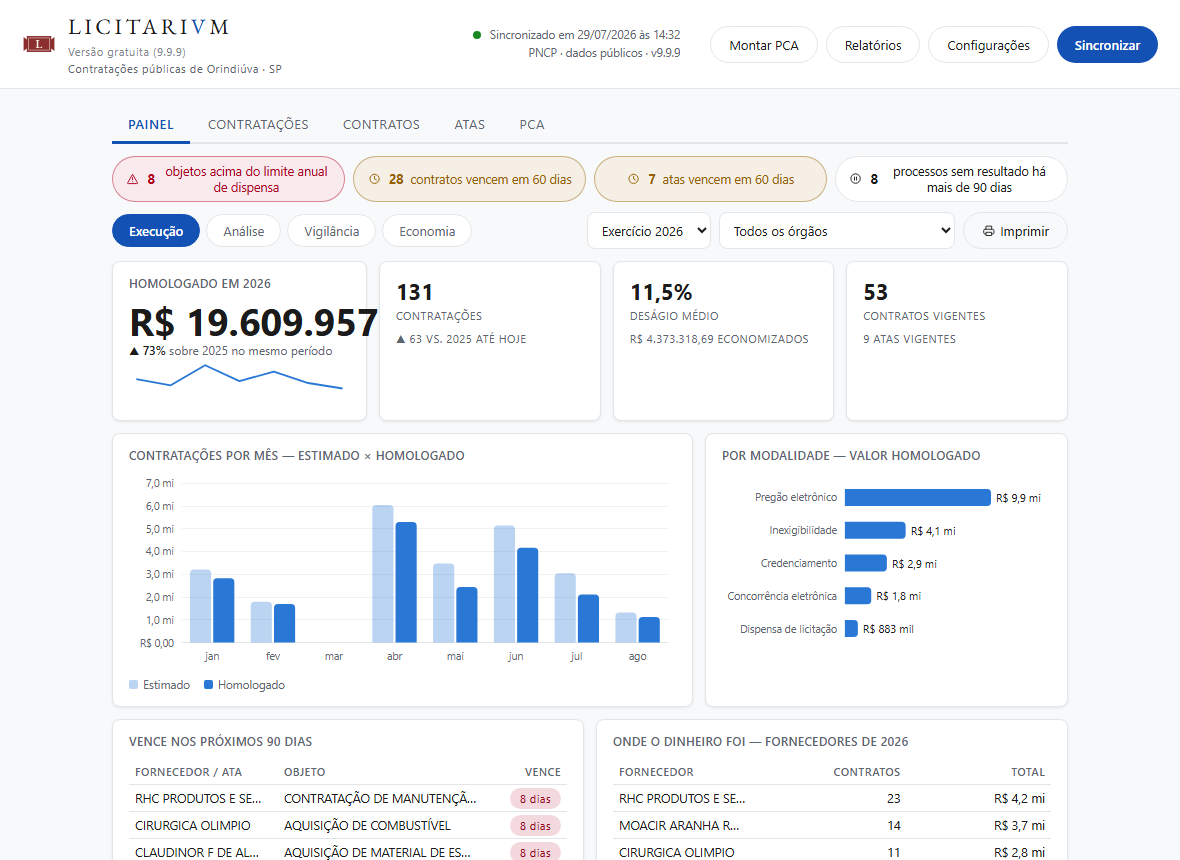
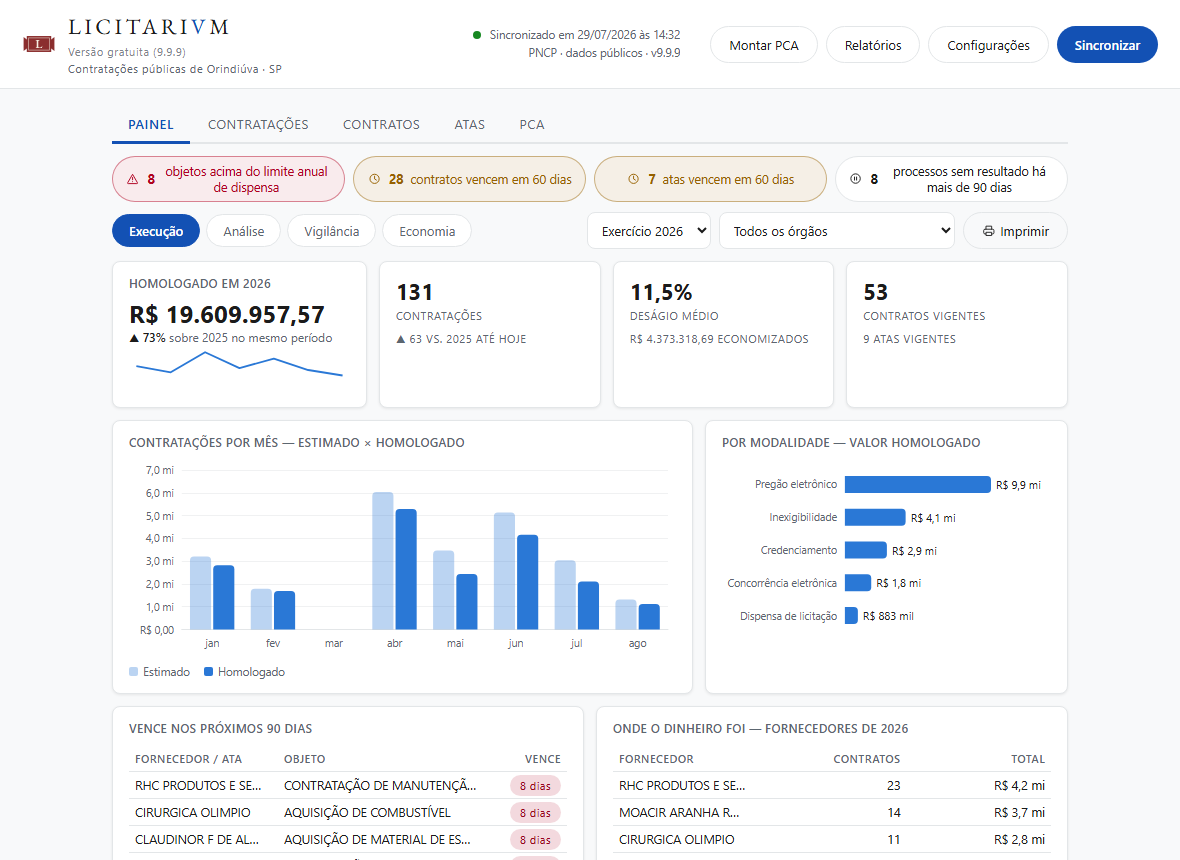
fix(painel): hero mede a fonte pelo card, não pela janela
O clamp() do número em ".hero .n" escalava por `vw` (largura da JANELA).
O card para de crescer ao esbarrar no teto do `main`, mas a fonte
continuava crescendo com a janela — em telas largas ela passava da
largura do card. Sem overflow:hidden em lugar nenhum, o excesso não era
cortado: era pintado por baixo do card vizinho no grid, o que na tela
parecia corte limpo mas não era (boundingBox() nunca acusava, porque mede
a área pintada, não o conteúdo).

Estourou de verdade na 1.44.5: "R$ 19,6 mi" (11 caracteres) virou
"R$ 19.609.957,57" (17) e o teto de 40px nunca foi calibrado pra essa
largura. `container-type:inline-size` no `.card.hero` + `cqw` no lugar de
`vw` — a fonte acompanha o card de verdade, não a janela.

Guarda antigo reescrito: usava boundingBox(), que não pegava o bug (dava
falso-negativo o tempo todo). Agora mede scrollWidth/clientWidth (overflow
real) em 4 larguras de janela, não só a mínima — o achado do usuário veio
de uma tela normal, não da mínima de 900px. Bites-confirmado: sem o CSS
novo, scrollW=246 > clientW=193.

Screenshots do README regenerados (mesma rodada de suíte).

Documentação: CHANGELOG + MANUAL + VERSAO 1.44.6.

diff --git a/MANUAL.html b/MANUAL.html
@@ -2,11 +2,11 @@
 <html lang="pt-BR">
 <head>
 <meta charset="utf-8">
-<title>Manual Operacional — Licitarium Free v1.44.5</title>
+<title>Manual Operacional — Licitarium Free v1.44.6</title>
 <style>
   @page {
     size: A4; margin: 2cm 1.8cm;
-    @top-center { content: "Licitarium Free v1.44.5 — Manual Operacional"; font-size: 9pt; color: #6f5b3e; }
+    @top-center { content: "Licitarium Free v1.44.6 — Manual Operacional"; font-size: 9pt; color: #6f5b3e; }
     @bottom-right { content: "Página " counter(page) " de " counter(pages);
                     font-size: 9pt; color: #6f5b3e; }
   }
@@ -155,7 +155,7 @@
     <path d="M21.22 61.67Q21.16 61.67 21.12 61.65Q21.09 61.64 21.09 61.61Q21.09 61.58 21.13 61.56Q21.17 61.54 21.23 61.53Q21.35 61.5 21.42 61.41Q21.5 61.32 21.52 61.17Q21.57 60.82 21.61 60.47Q21.64 60.11 21.67 59.79Q21.7 59.47 21.71 59.22Q21.71 59.19 21.71 59.14Q21.71 59.1 21.71 59.06Q21.7 59.01 21.69 58.97Q21.67 58.93 21.62 58.89Q21.55 58.83 21.47 58.81Q21.4 58.78 21.3 58.76Q21.26 58.75 21.23 58.73Q21.2 58.7 21.2 58.67Q21.2 58.63 21.24 58.62Q21.28 58.61 21.34 58.61Q21.4 58.61 21.49 58.61Q21.59 58.62 21.71 58.63Q21.82 58.63 21.93 58.64Q22.03 58.64 22.1 58.64Q22.14 58.64 22.16 58.66Q22.19 58.69 22.2 58.72Q22.22 58.81 22.25 58.89Q22.27 58.98 22.31 59.07L23.02 60.84Q23.03 60.87 23.06 60.88Q23.09 60.88 23.11 60.85L23.93 59.08Q23.96 58.98 23.98 58.88Q24 58.78 24.02 58.71Q24.03 58.65 24.07 58.65H24.25Q24.41 58.64 24.59 58.63Q24.76 58.61 24.85 58.61Q24.89 58.61 24.92 58.62Q24.96 58.63 24.96 58.66Q24.96 58.7 24.93 58.71Q24.9 58.73 24.84 58.76Q24.79 58.77 24.73 58.8Q24.67 58.82 24.62 58.84Q24.55 58.88 24.51 58.93Q24.46 58.98 24.47 59.07Q24.47 59.4 24.48 59.67Q24.5 59.94 24.51 60.19Q24.52 60.43 24.54 60.68Q24.56 60.93 24.57 61.2Q24.58 61.34 24.67 61.41Q24.75 61.49 24.92 61.52Q24.98 61.54 25.02 61.56Q25.05 61.57 25.05 61.61Q25.05 61.64 25.02 61.65Q24.99 61.67 24.93 61.67Q24.82 61.67 24.72 61.66Q24.62 61.65 24.53 61.65Q24.43 61.64 24.33 61.64Q24.24 61.64 24.16 61.65Q24.08 61.65 23.99 61.66Q23.9 61.67 23.78 61.67Q23.73 61.67 23.7 61.65Q23.66 61.64 23.66 61.61Q23.66 61.58 23.7 61.55Q23.73 61.53 23.8 61.52Q23.95 61.5 24 61.43Q24.06 61.36 24.06 61.2Q24.05 60.88 24.04 60.61Q24.04 60.34 24.02 60.07Q24.01 59.8 24 59.51Q23.99 59.46 23.97 59.47Q23.95 59.47 23.93 59.51L22.93 61.66Q22.92 61.7 22.88 61.7Q22.84 61.69 22.83 61.66Q22.63 61.12 22.41 60.59Q22.19 60.07 21.95 59.5Q21.94 59.47 21.91 59.47Q21.89 59.47 21.88 59.51Q21.85 59.8 21.83 60.07Q21.8 60.34 21.79 60.61Q21.78 60.88 21.78 61.17Q21.78 61.3 21.86 61.39Q21.94 61.49 22.09 61.52Q22.16 61.54 22.2 61.55Q22.24 61.57 22.24 61.61Q22.24 61.64 22.2 61.65Q22.16 61.67 22.11 61.67Q21.99 61.67 21.92 61.66Q21.86 61.65 21.81 61.65Q21.75 61.65 21.66 61.65Q21.57 61.65 21.51 61.65Q21.44 61.66 21.37 61.66Q21.3 61.67 21.22 61.67ZM25.84 61.67Q25.78 61.67 25.75 61.65Q25.72 61.64 25.72 61.61Q25.72 61.58 25.75 61.56Q25.79 61.54 25.86 61.53Q25.97 61.5 26.05 61.41Q26.13 61.32 26.15 61.17Q26.19 60.82 26.23 60.47Q26.27 60.11 26.3 59.79Q26.32 59.47 26.33 59.22Q26.34 59.19 26.34 59.14Q26.34 59.1 26.33 59.06Q26.33 59.01 26.31 58.97Q26.3 58.93 26.25 58.89Q26.17 58.83 26.1 58.81Q26.03 58.78 25.93 58.76Q25.88 58.75 25.85 58.73Q25.82 58.7 25.82 58.67Q25.82 58.63 25.86 58.62Q25.91 58.61 25.97 58.61Q26.02 58.61 26.12 58.61Q26.22 58.62 26.33 58.63Q26.45 58.63 26.56 58.64Q26.66 58.64 26.73 58.64Q26.76 58.64 26.79 58.66Q26.82 58.69 26.82 58.72Q26.85 58.81 26.88 58.89Q26.9 58.98 26.93 59.07L27.65 60.84Q27.66 60.87 27.69 60.88Q27.72 60.88 27.73 60.85L28.56 59.08Q28.58 58.98 28.61 58.88Q28.63 58.78 28.64 58.71Q28.66 58.65 28.7 58.65H28.88Q29.04 58.64 29.21 58.63Q29.39 58.61 29.48 58.61Q29.51 58.61 29.55 58.62Q29.59 58.63 29.59 58.66Q29.59 58.7 29.56 58.71Q29.53 58.73 29.47 58.76Q29.42 58.77 29.36 58.8Q29.3 58.82 29.25 58.84Q29.17 58.88 29.13 58.93Q29.09 58.98 29.09 59.07Q29.1 59.4 29.11 59.67Q29.12 59.94 29.14 60.19Q29.15 60.43 29.17 60.68Q29.18 60.93 29.2 61.2Q29.21 61.34 29.3 61.41Q29.38 61.49 29.54 61.52Q29.61 61.54 29.65 61.56Q29.68 61.57 29.68 61.61Q29.68 61.64 29.65 61.65Q29.61 61.67 29.56 61.67Q29.44 61.67 29.34 61.66Q29.25 61.65 29.15 61.65Q29.06 61.64 28.96 61.64Q28.87 61.64 28.79 61.65Q28.71 61.65 28.62 61.66Q28.53 61.67 28.41 61.67Q28.36 61.67 28.32 61.65Q28.29 61.64 28.29 61.61Q28.29 61.58 28.32 61.55Q28.36 61.53 28.43 61.52Q28.57 61.5 28.63 61.43Q28.68 61.36 28.68 61.2Q28.68 60.88 28.67 60.61Q28.66 60.34 28.65 60.07Q28.64 59.8 28.63 59.51Q28.62 59.46 28.6 59.47Q28.58 59.47 28.56 59.51L27.56 61.66Q27.55 61.7 27.51 61.7Q27.47 61.69 27.46 61.66Q27.26 61.12 27.04 60.59Q26.82 60.07 26.58 59.5Q26.57 59.47 26.54 59.47Q26.52 59.47 26.51 59.51Q26.48 59.8 26.45 60.07Q26.43 60.34 26.42 60.61Q26.41 60.88 26.41 61.17Q26.41 61.3 26.49 61.39Q26.57 61.49 26.72 61.52Q26.79 61.54 26.83 61.55Q26.87 61.57 26.87 61.61Q26.87 61.64 26.83 61.65Q26.79 61.67 26.74 61.67Q26.61 61.67 26.55 61.66Q26.48 61.65 26.43 61.65Q26.38 61.65 26.29 61.65Q26.2 61.65 26.13 61.65Q26.07 61.66 26 61.66Q25.93 61.67 25.84 61.67ZM30.37 61.67Q30.31 61.67 30.27 61.66Q30.23 61.65 30.23 61.61Q30.23 61.58 30.27 61.56Q30.31 61.54 30.37 61.51Q30.46 61.49 30.57 61.44Q30.67 61.38 30.79 61.29Q30.9 61.2 31 61.07L31.58 60.35Q31.63 60.28 31.64 60.21Q31.66 60.14 31.59 60.05L30.96 59.16Q30.86 59.03 30.79 58.95Q30.71 58.87 30.63 58.83Q30.56 58.8 30.48 58.77Q30.41 58.75 30.37 58.73Q30.34 58.71 30.34 58.67Q30.34 58.64 30.37 58.63Q30.41 58.62 30.46 58.62Q30.61 58.62 30.81 58.63Q31.01 58.64 31.2 58.64Q31.34 58.64 31.47 58.63Q31.61 58.62 31.7 58.62Q31.75 58.62 31.79 58.64Q31.83 58.65 31.83 58.68Q31.83 58.72 31.79 58.74Q31.75 58.76 31.69 58.78Q31.56 58.81 31.5 58.84Q31.44 58.87 31.44 58.93Q31.44 59 31.56 59.18L31.99 59.77Q32.04 59.84 32.07 59.84Q32.1 59.84 32.14 59.78L32.59 59.18Q32.65 59.1 32.68 59.04Q32.71 58.98 32.71 58.93Q32.71 58.88 32.66 58.84Q32.61 58.8 32.5 58.78Q32.46 58.77 32.4 58.74Q32.35 58.72 32.35 58.68Q32.35 58.65 32.39 58.64Q32.43 58.63 32.49 58.63Q32.56 58.63 32.62 58.63Q32.68 58.63 32.74 58.63Q32.81 58.64 32.88 58.64Q33.02 58.64 33.15 58.62Q33.28 58.61 33.39 58.61Q33.45 58.61 33.49 58.62Q33.53 58.63 33.53 58.67Q33.53 58.7 33.49 58.72Q33.45 58.74 33.38 58.76Q33.26 58.79 33.12 58.93Q32.97 59.06 32.85 59.21L32.28 59.9Q32.22 59.97 32.21 60.01Q32.2 60.04 32.23 60.1L32.97 61.16Q33.06 61.29 33.18 61.39Q33.29 61.48 33.41 61.51Q33.48 61.53 33.52 61.55Q33.57 61.58 33.57 61.61Q33.57 61.64 33.53 61.66Q33.49 61.67 33.44 61.67Q33.33 61.67 33.21 61.66Q33.08 61.66 32.94 61.65Q32.81 61.64 32.69 61.64Q32.55 61.64 32.42 61.65Q32.29 61.65 32.19 61.65Q32.13 61.65 32.09 61.64Q32.05 61.62 32.05 61.59Q32.05 61.56 32.1 61.53Q32.15 61.51 32.2 61.5Q32.28 61.48 32.35 61.43Q32.42 61.38 32.42 61.29Q32.42 61.26 32.41 61.23Q32.4 61.19 32.37 61.16L31.89 60.45Q31.84 60.39 31.81 60.38Q31.78 60.38 31.75 60.43L31.19 61.17Q31.16 61.22 31.14 61.26Q31.13 61.3 31.13 61.33Q31.14 61.39 31.19 61.44Q31.25 61.49 31.34 61.51Q31.41 61.52 31.45 61.54Q31.49 61.57 31.49 61.6Q31.49 61.63 31.45 61.64Q31.42 61.66 31.36 61.66Q31.27 61.66 31.15 61.65Q31.03 61.65 30.92 61.65Q30.77 61.65 30.63 61.66Q30.49 61.67 30.37 61.67ZM34.14 61.67Q34.08 61.67 34.04 61.66Q34 61.65 34 61.61Q34 61.58 34.04 61.56Q34.08 61.54 34.14 61.51Q34.23 61.49 34.34 61.44Q34.44 61.38 34.56 61.29Q34.67 61.2 34.77 61.07L35.35 60.35Q35.4 60.28 35.41 60.21Q35.43 60.14 35.36 60.05L34.73 59.16Q34.63 59.03 34.56 58.95Q34.48 58.87 34.4 58.83Q34.33 58.8 34.25 58.77Q34.18 58.75 34.14 58.73Q34.11 58.71 34.11 58.67Q34.11 58.64 34.14 58.63Q34.18 58.62 34.23 58.62Q34.38 58.62 34.58 58.63Q34.78 58.64 34.97 58.64Q35.11 58.64 35.24 58.63Q35.38 58.62 35.47 58.62Q35.52 58.62 35.56 58.64Q35.6 58.65 35.6 58.68Q35.6 58.72 35.56 58.74Q35.52 58.76 35.46 58.78Q35.33 58.81 35.27 58.84Q35.21 58.87 35.21 58.93Q35.21 59 35.33 59.18L35.76 59.77Q35.81 59.84 35.84 59.84Q35.87 59.84 35.91 59.78L36.36 59.18Q36.42 59.1 36.45 59.04Q36.48 58.98 36.48 58.93Q36.48 58.88 36.43 58.84Q36.38 58.8 36.27 58.78Q36.23 58.77 36.18 58.74Q36.12 58.72 36.12 58.68Q36.12 58.65 36.16 58.64Q36.2 58.63 36.26 58.63Q36.33 58.63 36.39 58.63Q36.45 58.63 36.51 58.63Q36.58 58.64 36.65 58.64Q36.79 58.64 36.92 58.62Q37.05 58.61 37.16 58.61Q37.22 58.61 37.26 58.62Q37.3 58.63 37.3 58.67Q37.3 58.7 37.26 58.72Q37.22 58.74 37.15 58.76Q37.03 58.79 36.89 58.93Q36.74 59.06 36.62 59.21L36.05 59.9Q35.99 59.97 35.98 60.01Q35.97 60.04 36 60.1L36.74 61.16Q36.83 61.29 36.95 61.39Q37.06 61.48 37.18 61.51Q37.25 61.53 37.29 61.55Q37.34 61.58 37.34 61.61Q37.34 61.64 37.3 61.66Q37.26 61.67 37.21 61.67Q37.1 61.67 36.98 61.66Q36.85 61.66 36.71 61.65Q36.58 61.64 36.46 61.64Q36.32 61.64 36.19 61.65Q36.06 61.65 35.96 61.65Q35.9 61.65 35.86 61.64Q35.82 61.62 35.82 61.59Q35.82 61.56 35.87 61.53Q35.92 61.51 35.97 61.5Q36.05 61.48 36.12 61.43Q36.2 61.38 36.2 61.29Q36.2 61.26 36.18 61.23Q36.17 61.19 36.14 61.16L35.66 60.45Q35.61 60.39 35.58 60.38Q35.55 60.38 35.52 60.43L34.96 61.17Q34.93 61.22 34.91 61.26Q34.9 61.3 34.9 61.33Q34.91 61.39 34.96 61.44Q35.02 61.49 35.11 61.51Q35.18 61.52 35.22 61.54Q35.26 61.57 35.26 61.6Q35.26 61.63 35.22 61.64Q35.19 61.66 35.13 61.66Q35.04 61.66 34.92 61.65Q34.8 61.65 34.69 61.65Q34.54 61.65 34.4 61.66Q34.26 61.67 34.14 61.67ZM39.32 61.71Q39.27 61.71 39.25 61.66Q39.23 61.61 39.19 61.51Q39.16 61.41 39.13 61.34L38.26 59.11Q38.21 58.99 38.14 58.9Q38.06 58.81 37.93 58.78Q37.87 58.76 37.83 58.74Q37.79 58.71 37.79 58.68Q37.79 58.65 37.83 58.63Q37.86 58.62 37.92 58.62Q38 58.62 38.1 58.63Q38.2 58.63 38.31 58.63Q38.42 58.64 38.52 58.64Q38.61 58.64 38.72 58.63Q38.82 58.63 38.92 58.63Q39.02 58.62 39.08 58.62Q39.13 58.62 39.17 58.64Q39.21 58.65 39.21 58.68Q39.21 58.72 39.17 58.74Q39.13 58.77 39.07 58.78Q38.93 58.79 38.85 58.84Q38.78 58.88 38.78 58.96Q38.78 59.02 38.79 59.07Q38.81 59.12 38.82 59.15L39.46 60.88Q39.47 60.9 39.48 60.91Q39.5 60.91 39.51 60.87L40.11 59.3Q40.2 59.05 40.13 58.93Q40.06 58.8 39.89 58.78Q39.83 58.77 39.79 58.74Q39.74 58.72 39.74 58.68Q39.74 58.65 39.78 58.64Q39.82 58.63 39.88 58.63Q39.95 58.63 40.02 58.63Q40.09 58.63 40.17 58.63Q40.24 58.64 40.33 58.64Q40.47 58.64 40.61 58.63Q40.75 58.62 40.85 58.62Q40.91 58.62 40.95 58.63Q40.99 58.64 40.99 58.68Q40.99 58.71 40.95 58.73Q40.91 58.75 40.84 58.77Q40.68 58.81 40.58 58.92Q40.47 59.04 40.41 59.19L39.59 61.15Q39.56 61.23 39.52 61.32Q39.49 61.41 39.45 61.5Q39.42 61.59 39.38 61.66Q39.38 61.69 39.36 61.7Q39.34 61.71 39.32 61.71ZM41.59 61.67Q41.54 61.67 41.51 61.65Q41.47 61.64 41.47 61.61Q41.47 61.55 41.61 61.52Q41.78 61.49 41.87 61.42Q41.95 61.35 41.95 61.19V59.1Q41.95 58.94 41.89 58.87Q41.82 58.81 41.64 58.77Q41.51 58.75 41.51 58.68Q41.51 58.65 41.54 58.63Q41.58 58.62 41.63 58.62Q41.75 58.62 41.84 58.63Q41.93 58.63 42.02 58.63Q42.11 58.64 42.21 58.64Q42.31 58.64 42.4 58.63Q42.48 58.63 42.57 58.63Q42.66 58.62 42.78 58.62Q42.83 58.62 42.86 58.63Q42.9 58.65 42.9 58.68Q42.9 58.71 42.86 58.74Q42.83 58.76 42.76 58.77Q42.59 58.81 42.51 58.88Q42.44 58.94 42.44 59.1V61.19Q42.44 61.35 42.53 61.42Q42.61 61.48 42.79 61.52Q42.86 61.54 42.89 61.56Q42.92 61.57 42.92 61.61Q42.92 61.64 42.89 61.65Q42.86 61.67 42.81 61.67Q42.69 61.67 42.59 61.66Q42.5 61.65 42.41 61.65Q42.32 61.64 42.21 61.64Q42.1 61.64 42.01 61.65Q41.91 61.65 41.81 61.66Q41.71 61.67 41.59 61.67Z" fill="var(--text)" opacity=".85"/>
   </svg>
   <h1 class="mark">LICITARI<b>V</b>M</h1>
-  <div class="subtitulo">MANUAL DO USUÁRIO · VERSÃO 1.44.5</div>
+  <div class="subtitulo">MANUAL DO USUÁRIO · VERSÃO 1.44.6</div>
 </header>
 
 <h2>1. O que é o Licitarium</h2>
@@ -170,7 +170,7 @@ sincronizado e se atualiza sozinho a cada abertura. O Licitarium apenas
 <h2>2. Instalação</h2>
 <h3>Pelo executável (recomendado)</h3>
 <ol>
-  <li>Baixe o <code>Licitarium.Free.v1.44.5.exe</code> na página de releases do
+  <li>Baixe o <code>Licitarium.Free.v1.44.6.exe</code> na página de releases do
       projeto — o nome do arquivo traz a versão, então dá para saber qual
       você tem sem abrir o programa.</li>
   <li>Execute. Não precisa instalar, nem ter Python, nem direitos de administrador.</li>

diff --git a/tests-e2e/painel.spec.js b/tests-e2e/painel.spec.js
@@ -527,30 +527,39 @@ test("os 5 alertas possíveis cabem numa linha só até a largura mínima da jan
   for (const y of ys) expect(Math.abs(y - ys[0])).toBeLessThan(10);
 });
 
-test("número do hero cabe numa linha só na largura mínima da janela",
+test("número do hero cabe numa linha, em qualquer largura de janela",
     async ({ page }) => {
   // achado da auditoria (m1, 2026-08-08): a 900px (min_size do pywebview,
   // licitarium.py) "R$ 19,6 mi" quebrava em duas linhas dentro do card.
-  // fonte virou clamp() — este teste confere que ela de fato encolheu o
-  // bastante pra caber, e não só reduziu sem resolver. Desde a troca do
-  // compacto ("R$ 19,6 mi") pelo valor completo ("R$ 19.609.957,57",
-  // pedido do usuário 2026-08-24) a string ficou bem mais longa — o mesmo
-  // risco de quebra, só que agora em todo hero do Painel.
-  // desde a vista Economia, mais de um ".card.hero" existe no DOM (as vistas
-  // ficam todas montadas, só ocultas) — escopado à vista à mostra
-  await page.setViewportSize({ width: 900, height: 700 });
+  // fonte virou clamp() — mas o `boundingBox()` que este teste usava mede a
+  // área PINTADA, não o conteúdo: `.n` não tem overflow:hidden nenhum, então
+  // um número mais largo que o card não é cortado por CSS — ele transborda
+  // e é pintado POR BAIXO do card vizinho no grid (ordem do DOM), o que
+  // parece corte na tela mas o boundingBox() não via nada de errado.
+  // Estourou de verdade na v1.44.5 (valor completo, "R$ 19.609.957,57",
+  // 17 caracteres — bem mais longo que o "R$ 19,6 mi" original) em
+  // qualquer largura ACIMA de 900px: o `clamp()` antigo escalava a fonte
+  // por `vw` (largura da JANELA), e o card para de crescer bem antes da
+  // fonte parar de crescer. Virou `cqw` (largura do CARD) — por isso este
+  // teste confere em várias larguras, não só na mínima, e mede
+  // `scrollWidth` contra `clientWidth` (overflow de verdade), não a caixa
+  // pintada.
   const cabe = async (seletor) => {
     const numero = page.locator(seletor);
-    const caixa = await numero.boundingBox();
-    const linha = await numero.evaluate(
-      el => parseFloat(getComputedStyle(el).lineHeight));
-    const hero = await numero.locator("xpath=..").boundingBox();
-    expect(caixa.height).toBeLessThan(linha * 1.5);
-    expect(caixa.width).toBeLessThanOrEqual(hero.width - 16);
+    const info = await numero.evaluate(el => ({
+      scrollW: el.scrollWidth, clientW: el.clientWidth,
+      linhas: el.scrollHeight / parseFloat(getComputedStyle(el).lineHeight),
+    }));
+    expect(info.scrollW).toBeLessThanOrEqual(info.clientW);
+    expect(info.linhas).toBeLessThan(1.5);
   };
-  await cabe("#p-execucao .card.hero .n");
-  await page.locator('.subabas button[data-vista="economia"]').click();
-  await cabe("#p-economia .card.hero .n");
+  for (const largura of [900, 1024, 1180, 1440]) {
+    await page.setViewportSize({ width: largura, height: 700 });
+    await cabe("#p-execucao .card.hero .n");
+    await page.locator('.subabas button[data-vista="economia"]').click();
+    await cabe("#p-economia .card.hero .n");
+    await page.locator('.subabas button[data-vista="execucao"]').click();
+  }
 });
 
 test("chip.aviso não herda margin-top da classe .aviso genérica",

diff --git a/ui/estilo.css b/ui/estilo.css
@@ -561,9 +561,17 @@ details.raw pre { background:var(--surface2); border-radius:var(--radius);
 /* achado da auditoria de design (2026-08-08): "R$ 19,6 mi" quebrava com o
    "mi" sozinho numa linha na largura mínima da janela (900px) — o número
    mais importante da tela virava o com pior tipografia bem onde sobra
-   menos espaço. clamp() encolhe a fonte antes de precisar quebrar; medido
-   a 900px (card ~193px úteis) até 1440px (card ~340px). */
-.hero .n { font-size:clamp(26px, 2.5vw + 8px, 40px); font-weight:700;
+   menos espaço. clamp() encolhe a fonte antes de precisar quebrar.
+   Escala por `cqw` (largura do CARD), não `vw` (largura da JANELA): o
+   card para de crescer ao esbarrar no teto do `main`, mas `vw` continua
+   subindo — o número passava do card em tela larga sem quebrar (sem
+   overflow:hidden em lugar nenhum, então só sumia, pintado por baixo do
+   card vizinho no grid). Estourou de verdade na v1.44.5, quando o valor
+   arredondado ("R$ 19,6 mi", 11 caracteres) virou o completo
+   ("R$ 19.609.957,57", 17) — o teto de 40px nunca tinha sido calibrado
+   pra essa largura. */
+.card.hero { container-type:inline-size; }
+.hero .n { font-size:clamp(20px, 11cqw, 27px); font-weight:700;
            line-height:1.05; white-space:nowrap; }
 .hero .r, .kpiv .r { font-size:12px; color:var(--muted); margin-top:2px; }
 .kpiv .v { font-size:22px; font-weight:700; }

diff --git a/licitarium.py b/licitarium.py
@@ -28,7 +28,7 @@ import pca_builder
 import pncp
 import relatorios
 
-VERSAO = "1.44.5"
+VERSAO = "1.44.6"
 # dentro do exe onefile os arquivos ficam na pasta temporária do bundle;
 # _MEIPASS é o caminho oficial para chegar até eles
 DIR_APP = Path(getattr(sys, "_MEIPASS", Path(__file__).resolve().parent))

diff --git a/CHANGELOG.md b/CHANGELOG.md
@@ -1,5 +1,16 @@
 # Changelog
 
+## 1.44.6 — 2026-08-24
+
+**O valor do card "Homologado"/"Economizado" estava sumindo em telas
+largas**
+
+A 1.44.5 trocou o valor arredondado ("R$ 15,9 mi") pelo completo, mas o
+tamanho da letra desses dois cards media pela largura da JANELA, não do
+card — numa tela larga a letra crescia mais do que o card, e o fim do
+número (os centavos, às vezes mais) desaparecia atrás do card vizinho, sem
+aviso nenhum. Corrigido: a letra agora acompanha a largura do próprio card.
+
 ## 1.44.5 — 2026-08-24
 
 **Os cards de valor do Painel e dos relatórios mostram o número completo**
